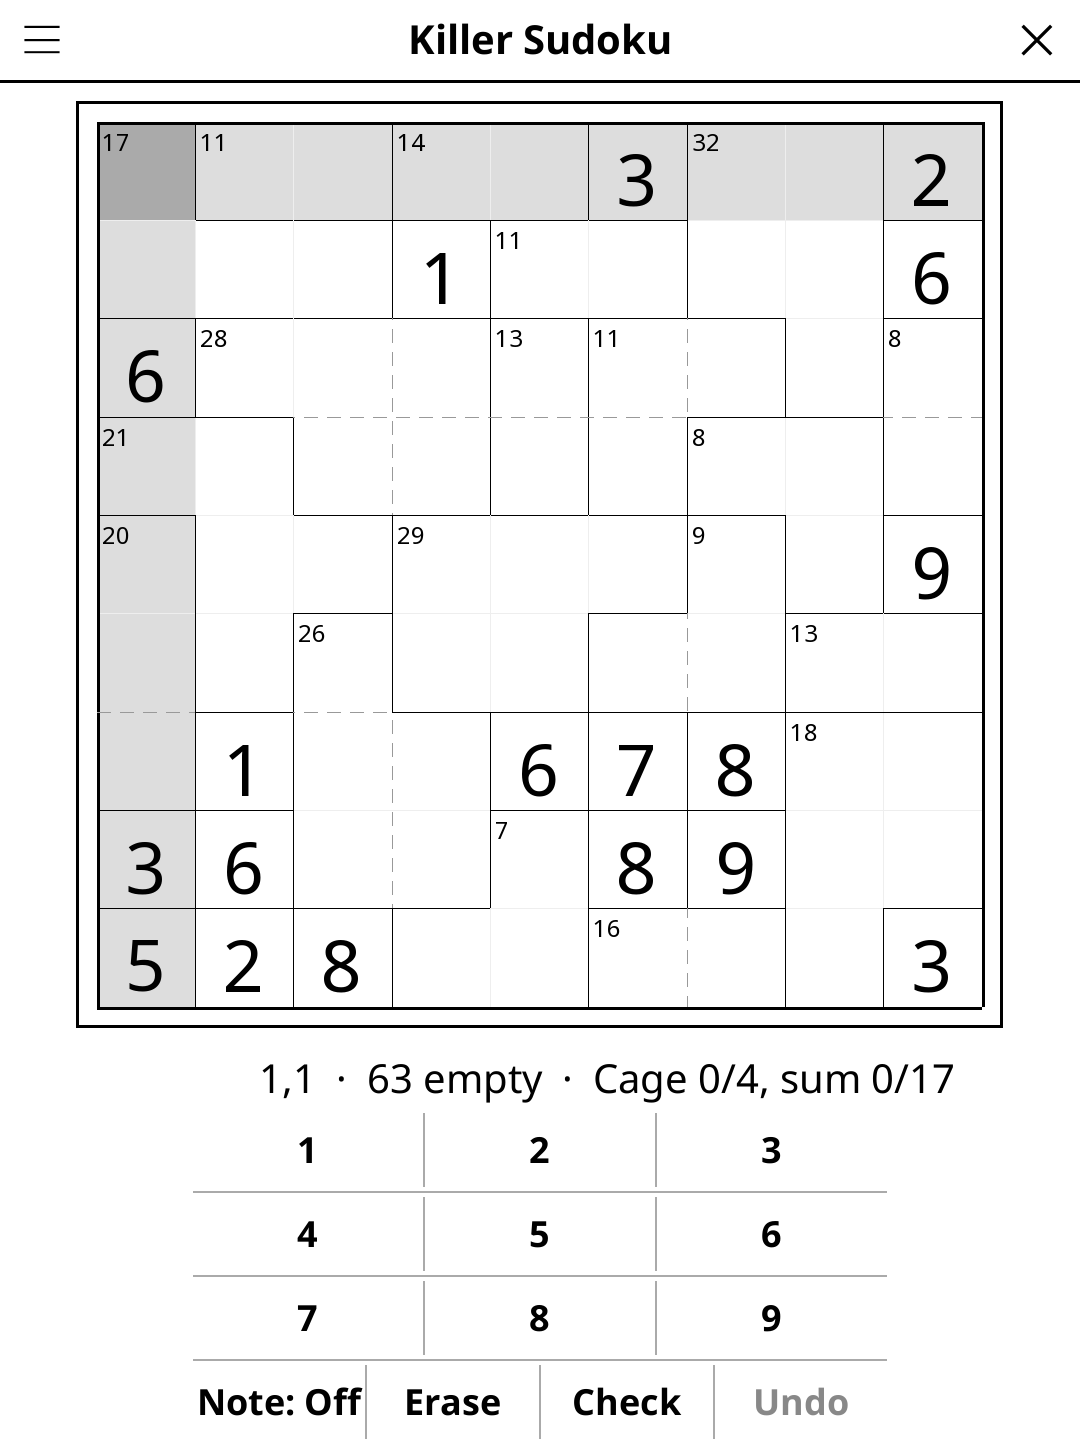
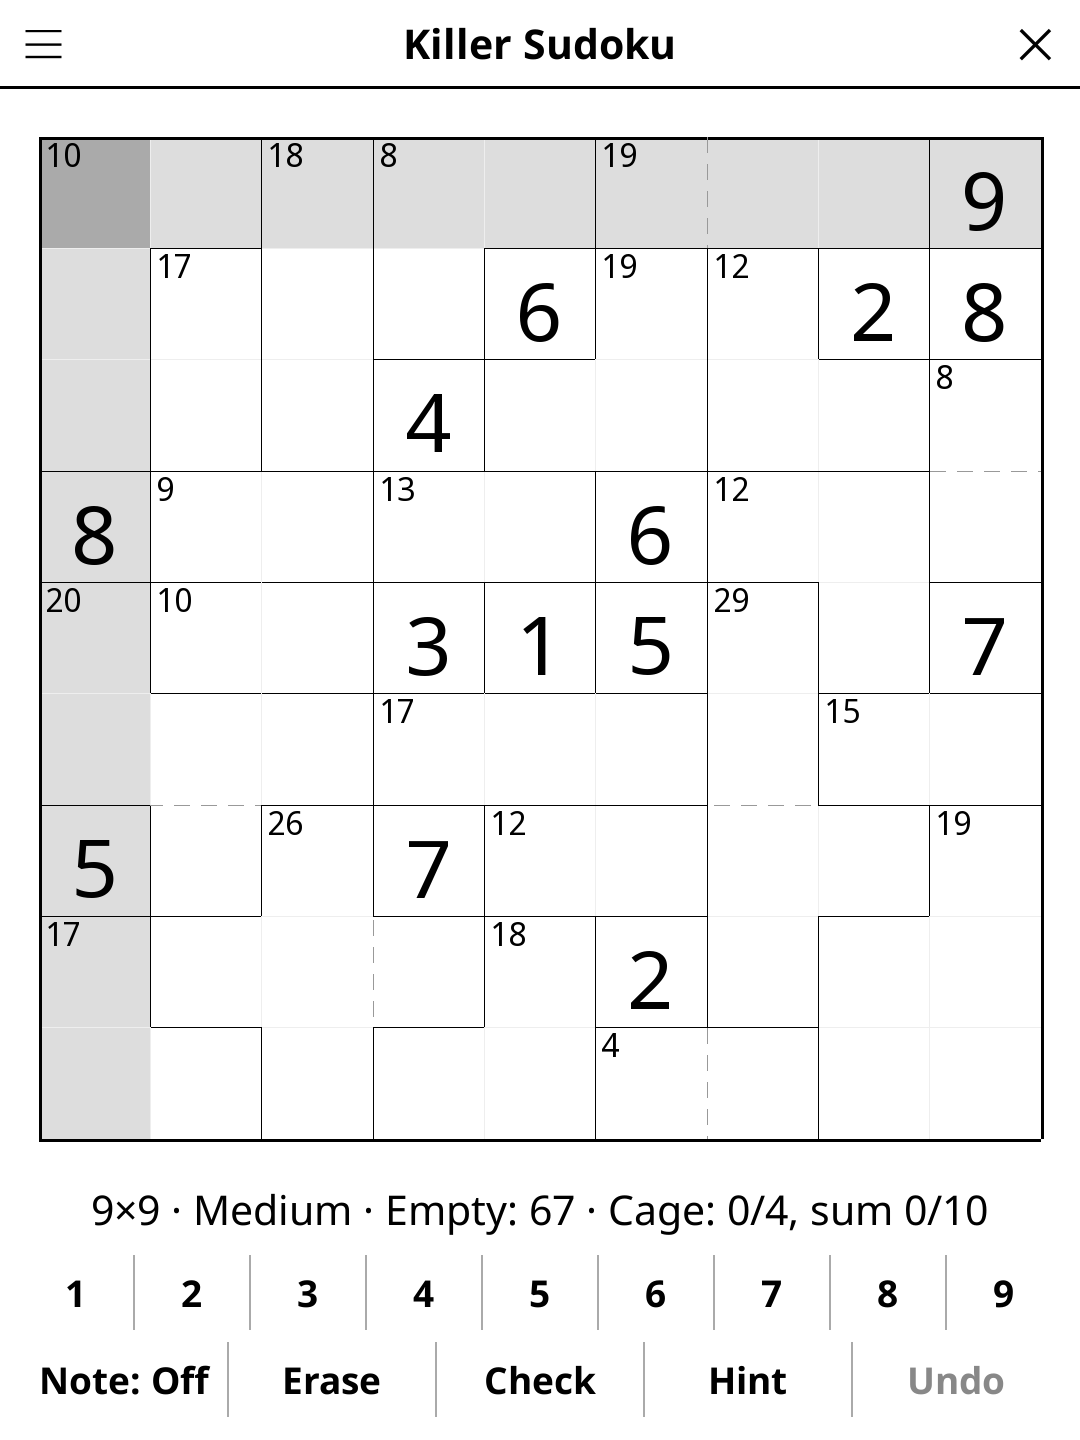
release: 1.5.0 -- redesigned screen, harmonised menu, New game at round end
Screen redesign (full-width action bar, unified pad, status line, larger
board), harmonised title-bar menu, and a "New game" button once the round
is over. See CHANGELOG.md.

diff --git a/CHANGELOG.md b/CHANGELOG.md
@@ -2,6 +2,29 @@
 
 All notable changes to this project will be documented in this file.
 
+## [1.5.0] - 2026-10-30
+
+### Changed
+- Redesigned play screen (sudoku-common 1.5.0): the board is larger, filling
+  the room the controls leave, with the digits 1-9 on one even row and Note /
+  Erase / Check / Hint / Undo in a full-width bar under the status line.
+- The status line reads "9×9 · Medium · Empty: 45 · Cage: 2/3, sum 9/15"
+  (the cage under the selection) and wraps in landscape instead of being cut
+  off.
+- The title-bar menu shows "Difficulty: …" and "Show solution" / "Hide
+  solution" (was "Diff: …" and "Show result" / "Hide result"), like every
+  other game.
+- Once the puzzle is solved, the tool bar shows "New game" in place of
+  Note/Erase/Check/Hint/Undo; an Undo that un-solves the grid brings the tools
+  back.
+
+### Fixed
+- Digits overflowed their cells: the shared font fit accepted every size.
+  Digits and notes now fit their cell on every screen.
+- Cage sums were sized from pixels and then scaled again for the screen's
+  DPI, so they came out at a different fraction of the cell on every device
+  (barely legible on small ones). They are now fitted to the cell's corner.
+
 ## [1.4.1] - 2026-10-02
 
 ### Fixed

diff --git a/README.md b/README.md
@@ -39,7 +39,7 @@ Standard Sudoku rules (fill 1–9; no repeats in rows, columns, or 3×3 boxes) p
 | Undo last move | Tap **Undo** |
 | Check progress | Tap **Check** |
 | New game | Tap **New game** |
-| Change difficulty | Tap **Diff** |
+| Change difficulty | Tap **Difficulty** |
 | Show rules | Tap **Rules** |
 
 ## Known limitations
